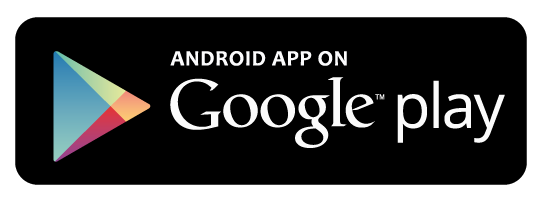
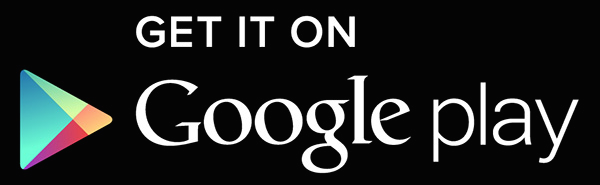
[Release] mobile support, camdal hompage V1.1.0

diff --git a/public/stylesheets/mobile-coop.css b/public/stylesheets/mobile-coop.css
@@ -1,3 +1,115 @@
 #header ul li#coop {
     border-bottom: 8px solid rgba(255, 127, 39, 0.8);
 }
+
+::-webkit-input-placeholder {
+    /* WebKit, Blink, Edge */
+    color: #FF7F27;
+    opacity: 0.75;
+}
+
+:-moz-placeholder {
+    /* Mozilla Firefox 4 to 18 */
+    color: #FF7F27;
+    opacity: 0.75;
+}
+
+::-moz-placeholder {
+    /* Mozilla Firefox 19+ */
+    color: #FF7F27;
+    opacity: 0.75;
+}
+
+:-ms-input-placeholder {
+    /* Internet Explorer 10-11 */
+    color: #FF7F27;
+    opacity: 0.75;
+}
+
+.content {
+    width: calc(100% - 120px);
+    height: auto;
+    margin-top: 170px;
+    margin-left: 60px;
+}
+
+.title {
+    width: 400px;
+    height: 20px;
+    margin-bottom: 80px;
+    color: rgba(255, 127, 39, 0.9);
+    font-size: 50px;
+    line-height: 70px;
+}
+
+.form {
+    width: 100%;
+    margin-top: 90px;
+}
+
+.formCell {
+    width: 100%;
+    height: 100px;
+    margin-bottom: 40px;
+}
+
+.formCell img {
+    float: left;
+    width: 100px;
+    height: 100px;
+    margin-left: 20px;
+    margin-right: 30px;
+}
+
+.formCell input {
+    float: left;
+    width: 600px;
+    height: 80px;
+    margin-top: 10px;
+    padding-left: 20px;
+    background-color: #FAF7F1;
+    border: 5px solid rgba(255, 127, 39, 0.5);
+    font-size: 36px;
+    color: rgba(255, 127, 39, 0.9);
+}
+
+.type {
+    width: 600px;
+    height: 100px;
+    margin: 30px auto 0 auto;
+    padding-left: 40px;
+}
+
+.type .typeCell {
+    float: left;
+    width: 100%;
+    margin-bottom: 20px;
+}
+
+.type .typeCell img {
+    float: left;
+    width: 80px;
+    height: 80px;
+    cursor: pointer;
+}
+
+.type .typeCell .detail {
+    float: left;
+    margin-left: 20px;
+    font-size: 32px;
+    color: rgba(255, 127, 39, 0.9);
+    line-height: 76px;
+}
+
+#submitButton {
+    clear: both;
+    width: 380px;
+    height: 90px;
+    margin: 140px auto 0 auto;
+    background-color: rgba(255, 127, 39, 0.9);
+    color: rgba(255, 255, 255, 0.97);
+    text-align: center;
+    font-size: 30px;
+    line-height: 90px;
+    cursor: pointer;
+}

diff --git a/public/stylesheets/mobile-main.css b/public/stylesheets/mobile-main.css
@@ -55,15 +55,11 @@
 }
 
 #download .downloadLink {
-    width: 400px;
-    height: 120px;
+    width: 420px;
     margin: 70px auto 0 auto;
-    border: 4px solid rgba(255, 127, 39, 0.7);
-    color: rgba(255, 127, 39, 0.7);
-    font-family: Lato, Helvetica;
-    font-size: 60px;
-    letter-spacing: 2px;
-    text-align: center;
-    line-height: 116px;
     cursor: pointer;
+}
+
+#download .downloadLink img {
+    width: 400px;
 }

diff --git a/public/javascripts/mobile-coop.js b/public/javascripts/mobile-coop.js
@@ -1,16 +1,10 @@
 /**
- * Created by youngkim on 2015. 9. 7..
+ * Created by youngkim on 2015. 9. 11..
  */
 
 'use strict';
 
 $(document).ready(function () {
-    $('#fullpage').fullpage({
-        anchors: ['introduction', 'news', 'instruction', 'campus', 'cooperation'],
-        menu: '#menu',
-        scrollingSpeed: 1000
-    });
-
     registerEvent();
 });
 

diff --git a/public/stylesheets/mobile-campus.css b/public/stylesheets/mobile-campus.css
@@ -67,7 +67,7 @@
 .campusList {
     width: calc(100% - 60px);
     height: auto;
-    margin-bottom: 30px;
+    margin-bottom: 100px;
     margin-left: 30px;
     font-size: 15px;
     line-height: 70px;
